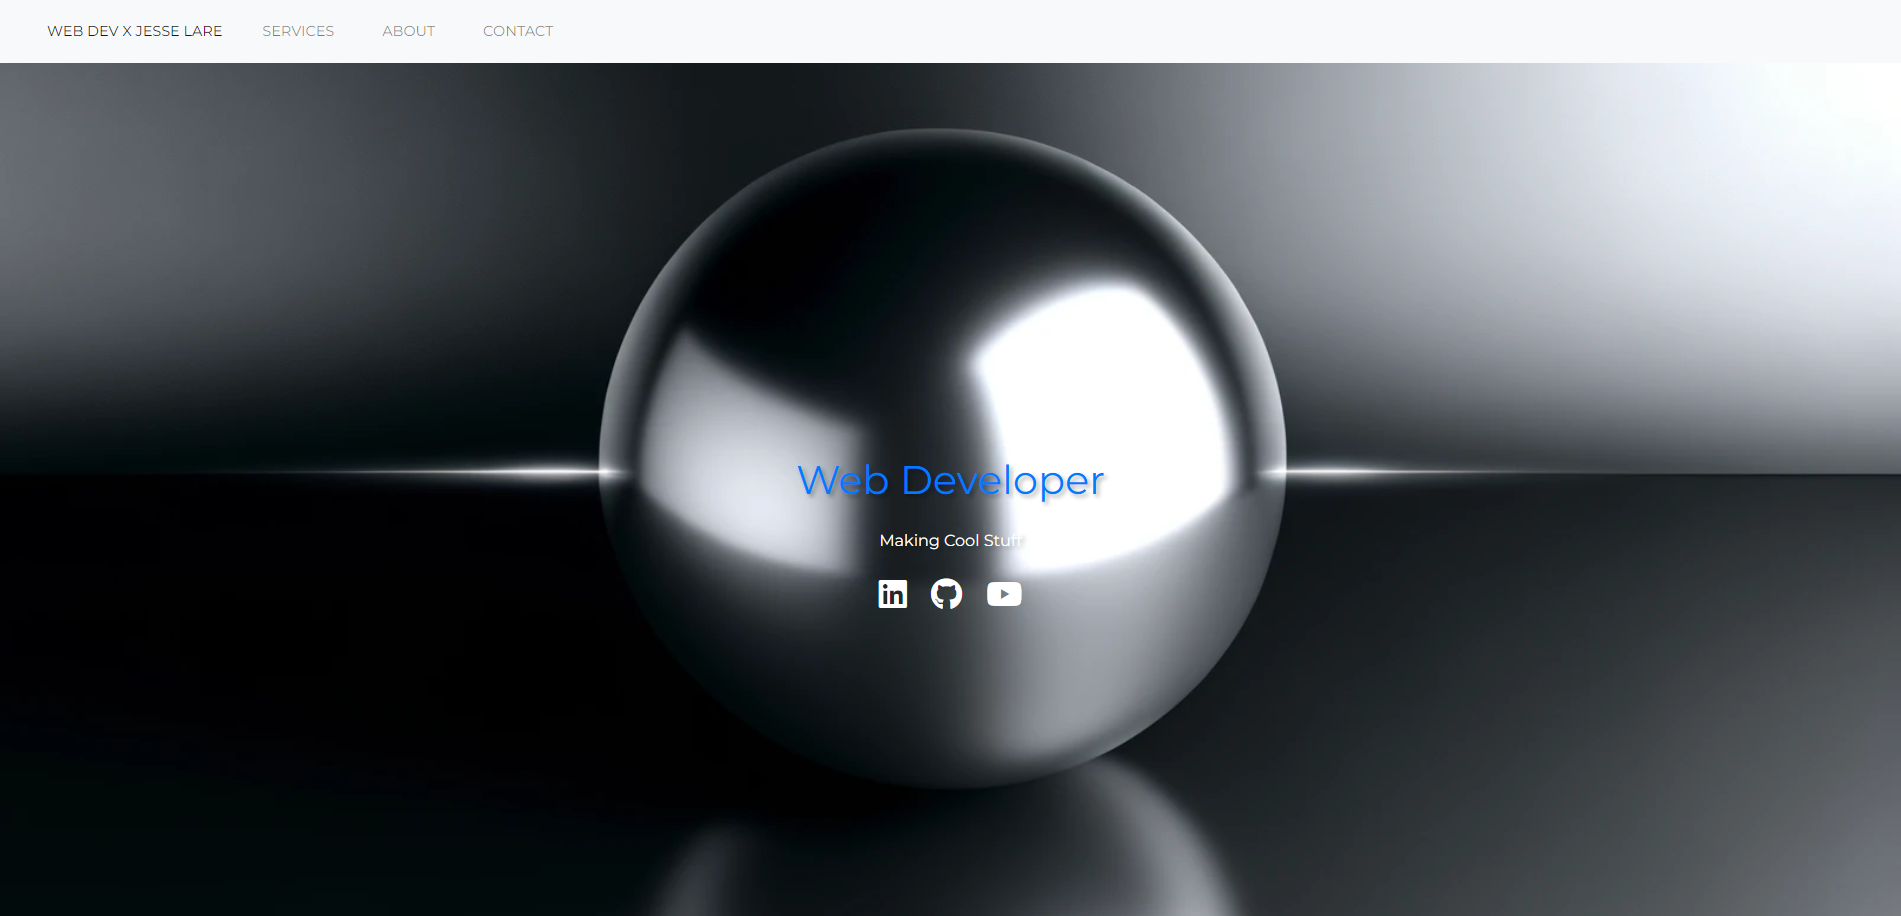
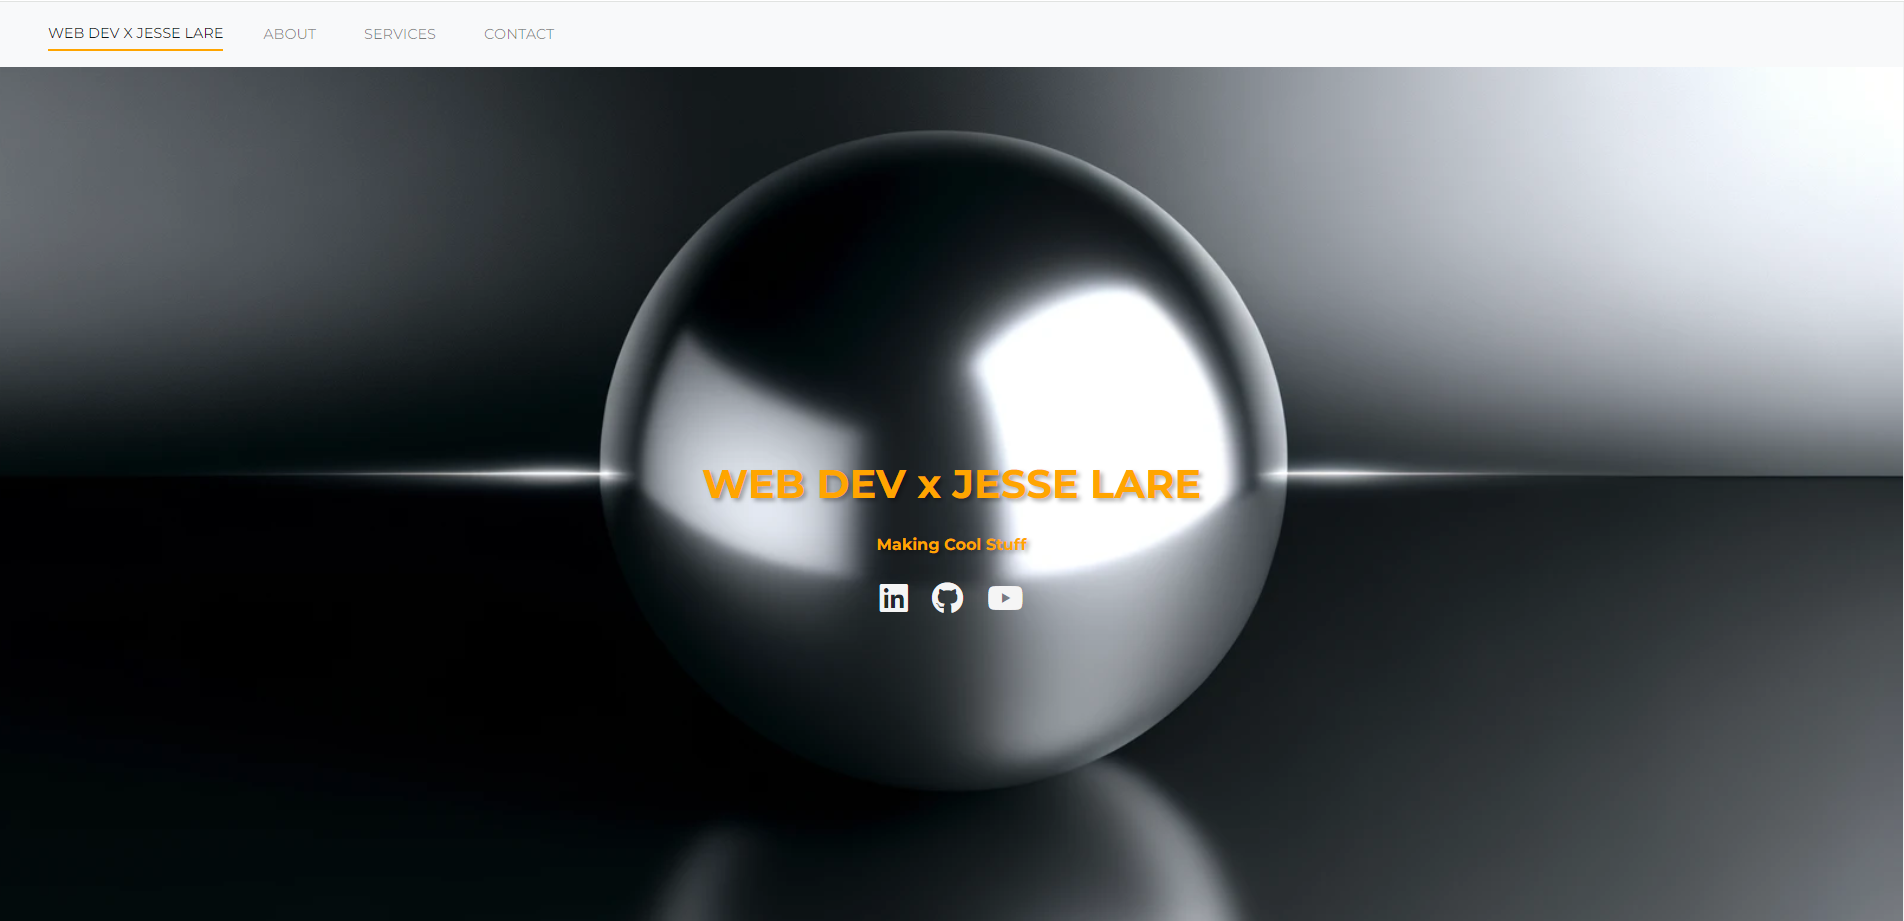
updating README, and styling/colors

diff --git a/styles.css b/styles.css
@@ -81,24 +81,22 @@ body {
 }
 
 .hero p {
+    color: #ffa500;
+    font-weight: bold;
     font-size: 1rem;
     margin-bottom: 1.5rem;
     text-shadow: 3px 3px 4px rgba(0, 0, 0, 0.3);
 }
 
-.hero button {
-    padding: 0.75rem 1.5rem;
-    border-radius: 20px;
-    background-color: #FFA500; /* Orange background */
-    font-size: 1rem;
-    cursor: pointer;
-    transition: background-color 0.3s ease;
-    box-shadow: 2px 2px 3px rgba(0, 0, 0, 0.2);
-}
 
-.hero button:hover {
-    background-color: #cc8400; /* Darker orange */
-}
+.text-primary {
+    color: #FFA500 !important; /* Orange color to match your accent */
+    font-size: 3rem; /* Larger font size for prominence */
+    font-weight: bold; /* Make the text bold */
+    text-shadow: 2px 2px 4px rgba(0, 0, 0, 0.5); /* Text shadow for better readability */
+    margin-bottom: 0.5rem; /* Spacing below the heading */
+  }
+  
 
 .social-icons {
     text-align: center; /* Center the icons if they are alone in a div */
@@ -107,7 +105,7 @@ body {
   
   .social-icon {
     margin: 0 10px; /* Spacing between icons */
-    color: #fff; /* White color for the icons */
+    color: whitesmoke; /* White color for the icons */
     transition: color 0.3s ease; /* Smooth color transition for hover effect */
   }
   
@@ -182,6 +180,52 @@ body {
   
   .was-validated .invalid-feedback {
     display: block;
+  }
+
+
+/* Buttons */
+.btn-primary {
+    background-color: #ffa500; /* Replace with your exact orange color code */
+    border-color: #ffa500; /* Same here */
+  }
+  
+  /* On hover, slightly change the shade if desired */
+  .btn-primary:hover {
+    background-color: #e69500; /* Darker shade of orange for hover effect */
+    border-color: #e69500; /* Same for border */
+  }
+  
+  /* Icons in the Services Section */
+  .service-icon {
+    color: #ffa500; /* Your orange color */
+  }
+  
+  
+  /* Borders or Underlines for Section Titles */
+  .section-title::after {
+    content: '';
+    display: block;
+    width: 50px;
+    height: 2px;
+    background-color: #ffa500;
+    margin: 8px auto; /* This centers the line if the title is centered */
+  }
+  
+  /* Footer Links */
+  footer a:hover {
+    color: #ffa500 !important; /* Orange color for hover state */
+  }
+  
+  /* Custom Bullet Points */
+  ul.custom-bullets li::before {
+    content: '• '; /* Custom bullet */
+    color: #ffa500; /* Orange bullets */
+    font-size: 1.2em; /* Adjust size as needed */
+  }
+  
+  /* Social Media Icons in the Footer */
+  .social-icon:hover {
+    color: #ffa500; /* Orange hover effect for social icons */
   }
   
 

diff --git a/index.html b/index.html
@@ -3,7 +3,7 @@
 <head>
     <meta charset="UTF-8">
     <meta name="viewport" content="width=device-width, initial-scale=1.0">
-    <title>Web Dev x Jesse Lare</title>
+    <title>WEB DEV x JESSE LARE</title>
     <link rel="stylesheet" href="https://stackpath.bootstrapcdn.com/bootstrap/4.5.2/css/bootstrap.min.css">
     <link rel="stylesheet" href="https://cdnjs.cloudflare.com/ajax/libs/bootstrap-icons/1.8.1/font/bootstrap-icons.min.css">
     <link rel="stylesheet" href="https://cdnjs.cloudflare.com/ajax/libs/font-awesome/6.0.0-beta3/css/all.min.css">
@@ -19,10 +19,10 @@
         <div class="collapse navbar-collapse" id="navbarNav">
             <ul class="navbar-nav">
                 <li class="nav-item">
-                    <a class="nav-link" href="#services">Services</a>
+                    <a class="nav-link" href="#about">About</a>
                 </li>
                 <li class="nav-item">
-                    <a class="nav-link" href="#about">About</a>
+                    <a class="nav-link" href="#services">Services</a>
                 </li>
                 <li class="nav-item">
                     <a class="nav-link" href="#contact">Contact</a>
@@ -34,7 +34,7 @@
 <!-- Hero Section -->
     <header class="hero d-flex justify-content-center align-items-center">
         <div class="text-center">
-          <h1 class="text-primary my-4">Web Developer</h1>
+          <h1 class="text-primary my-4">WEB DEV x JESSE LARE</h1>
           <p class="lead">Making Cool Stuff</p>
           <div class="social-icons">
             <a href="https://www.linkedin.com/in/jesselare" target="_blank" class="social-icon">
@@ -126,7 +126,7 @@
         </ul>
       </div>
       <div class="copywrite">
-        <p>&copy; 2024 Web Dev x Jesse Lare. All rights reserved.</p>
+        <p>&copy; 2024 WEB DEV x JESSE LARE. All rights reserved.</p>
       </div>
     </div>
   </footer>

diff --git a/README.md b/README.md
@@ -1,4 +1,4 @@
-# Wev Dev x Jesse Lare
+# WEB DEV x JESSE LARE
 
 this repo is for my freelance web development landing/marketing page. This website serves as the primary online marketing platform to showcase my web development services, engage with potential clients, and collect service inquiries through a contact form.
 
